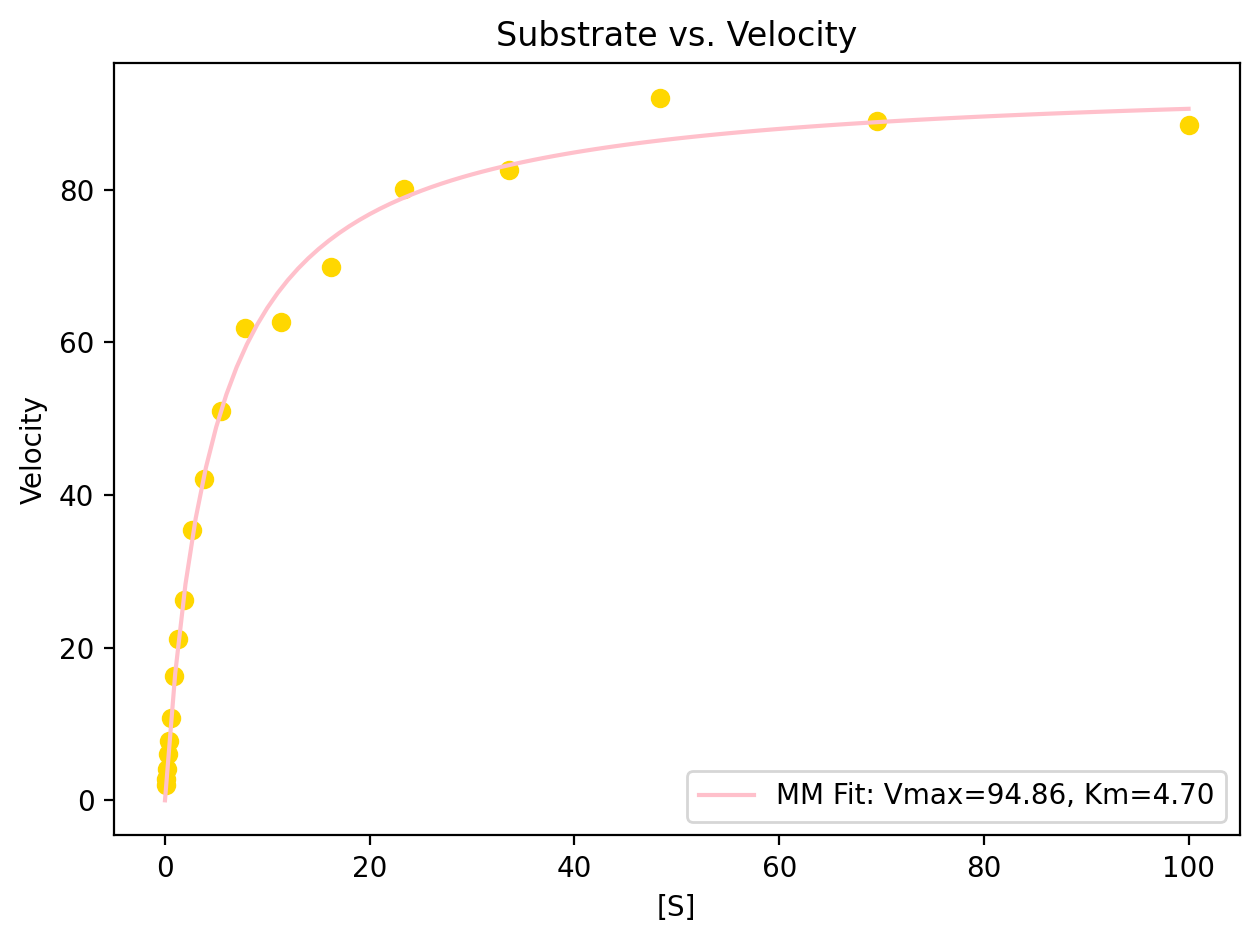
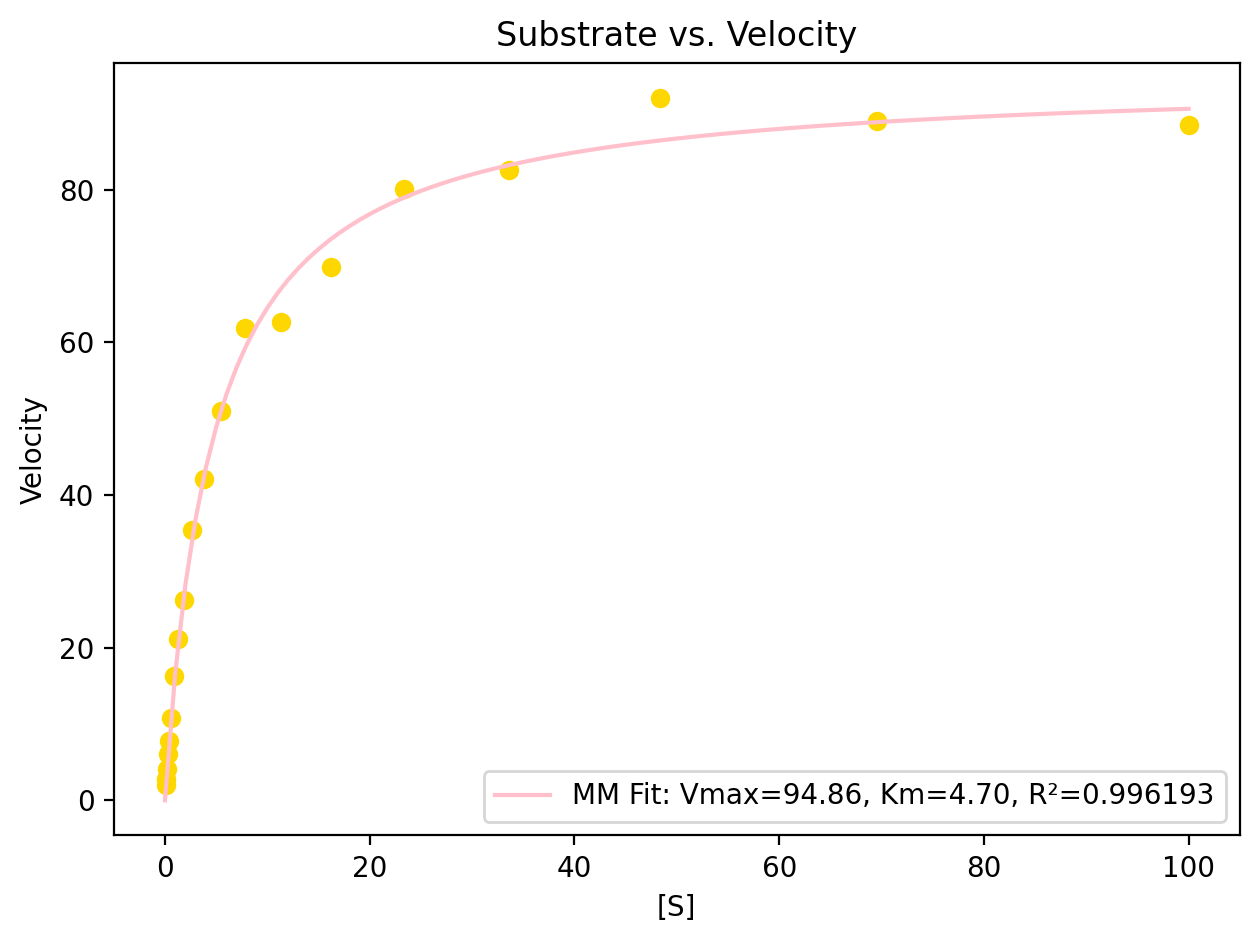
Added an R^2 feature to the utils and now appends R^2 to the results legend
Current goals:
Command line interface for running the model and generating results
Concentrated output of results in a single file

Changed region(s): [[0.3717, 0.8004, 0.9603, 0.8928]]

diff --git a/src/utils.py b/src/utils.py
@@ -1,4 +1,5 @@
 import pandas as pd
+import numpy as np
 from modelingeqs import MMfit
 def loaddata(filename):
     '''Load substrate and velocity data from a CSV file. The CSV file must contain 'substrate' and 'velocity' columns.'''
@@ -13,20 +14,39 @@ def preprocess_data(substrate, velocity: pd.Series):
         raise ValueError("Substrate and velocity data must be of the same length.")
     return True
 
+def r2_score(y_true, y_pred):
+    '''Calculates R-squared of fit'''
+    y_true = np.asarray(y_true, dtype=float)
+    y_pred = np.asarray(y_pred, dtype=float)
+    ss_res = np.sum((y_true - y_pred) ** 2)
+    ss_tot = np.sum((y_true - np.mean(y_true)) ** 2)
+    return 1 - (ss_res / ss_tot) if ss_tot != 0 else 0.0
+
 def plotdata(substrate, velocity):
     '''Plot substrate vs. velocity data using matplotlib.'''
     import matplotlib.pyplot as plt
+
+    
+
     # Sets the axis constraints
     figure, ax = plt.subplots()
     ax.scatter(substrate, velocity, color="gold")
     ax.set_xlabel('[S]')
     ax.set_ylabel('Velocity')
     ax.set_title('Substrate vs. Velocity')
+
+
     # plots the eq using the MMfit function to fit the data and plot the resulting curve
     vmax, km = MMfit(substrate, velocity)
     xfit = range(int(min(substrate)), int(max(substrate)) + 1)
     yfit = [vmax * s / (km + s) for s in xfit]
-    ax.plot(xfit, yfit, color='pink', label=f'MM Fit: Vmax={vmax:.2f}, Km={km:.2f}')
+    r2 = r2_score(velocity, [vmax * s / (km + s) for s in substrate])
+    ax.plot(xfit, 
+    yfit, 
+    color='pink', 
+    label=f'MM Fit: Vmax={vmax:.2f}, Km={km:.2f}, R²={r2:.6f}'
+    )
+    ax.legend()
     return figure
 
 def save_figure(filename, fig=None):
